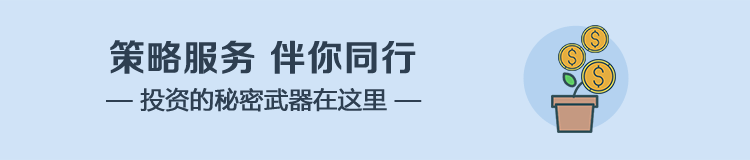
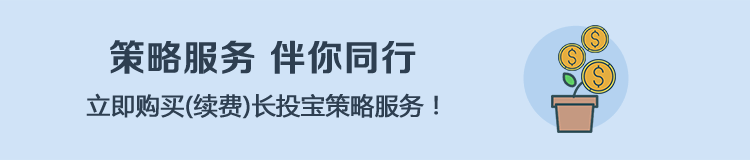
2017.2.14 ver2.5.5 删除 通用专题购买限制, 修改长投宝-全部课程列表图片

Changed region(s): [[0.1227, 0.5312, 0.5827, 0.75]]

diff --git a/src/views/pay/CommonTopicOrder.vue b/src/views/pay/CommonTopicOrder.vue
@@ -77,15 +77,15 @@
       // 支付按钮 信息
       btnOptions () {
         return {
-          state: this.isLogin && this.isBuyTopic ? 'exception' : '',
+          state: '', //因长投卡去掉购买限制  state: this.isLogin && this.isBuyTopic ? 'exception' : '',
           leftOptions: {
             price: this.sum,
-            text: '你已成功购买过,不可重复购买'
+            text: '' //因长投卡去掉购买限制 text: '你已成功购买过,不可重复购买'
           },
           rightOptions: {
             text: '回首页',
             disabled: !this.isLogin,
-            callback: this.isBuyTopic ? this.goToHome : this.onConfirmTap
+            callback: this.onConfirmTap //因长投卡去掉购买限制 callback: this.isBuyTopic ? this.goToHome : this.onConfirmTap
           }
         }
       }
@@ -172,16 +172,16 @@
        */
       getCoupons (order) {
         let coupons = []
-
-        if (order.coupons) {
-          coupons = order.coupons
-        }
-        if (order.card) {
-          coupons.push({
-            name: '长投卡(7折)',
-            userBene: Math.floor(this.price * 0.3)
-          })
-        }
+//
+//        if (order.coupons) {
+//          coupons = order.coupons
+//        }
+//        if (order.card) {
+//          coupons.push({
+//            name: '长投卡(7折)',
+//            userBene: Math.floor(this.price * 0.3)
+//          })
+//        }
         return coupons
       },
       onConfirmTap () {

diff --git a/src/views/topic/commonTopic.vue b/src/views/topic/commonTopic.vue
@@ -9,10 +9,11 @@
       </div>
     </scroller>
     <div class="bottom-area" v-show="isTopicLoaded && commonTopicInfo.price > 0">
-      <ict-button class="ict-button" :disabled="isBuy" v-bind:class="{'disable': isBuy}" v-touch:tap="toBuy" v-el:btn>
+      <!--<ict-button class="ict-button" :disabled="isBuy" v-bind:class="{'disable': isBuy}" v-touch:tap="toBuy" v-el:btn> //因长投卡去掉购买限制-->
+      <ict-button class="ict-button"  v-bind:class="{'disable': isBuy}" v-touch:tap="toBuy" v-el:btn>
         立即购买<span class="price">￥{{commonTopicInfo.price}}</span>
       </ict-button>
-      <div class="ticket-tip" v-show="isBuy">你已成功购买{{commonTopicInfo.title}},不可重复购买</div>
+      <!--<div class="ticket-tip" v-show="isBuy">你已成功购买{{commonTopicInfo.title}},不可重复购买</div> //因长投卡去掉购买限制-->
     </div>
   </div>
 </template>

diff --git a/src/vuex/topicCommon/getters.js b/src/vuex/topicCommon/getters.js
@@ -5,7 +5,7 @@
 export const commonTopic = (state) => {
   return state.topicCommon.commonTopicInfo
 }
-//获取是否购买年会门票
+//是否购买
 export const isBuyTopic = (state) => {
   return state.topicCommon.isbuy
 }

diff --git a/src/frame/versionConfig.js b/src/frame/versionConfig.js
@@ -6,7 +6,7 @@
 
 import {getNativeVersion} from '../plugin/version'
 
-const appVersion = '2.5.4' //功能版本号
+const appVersion = '2.5.5' //功能版本号
 
 //const nativeVersion = '0' //原生版本号
 
